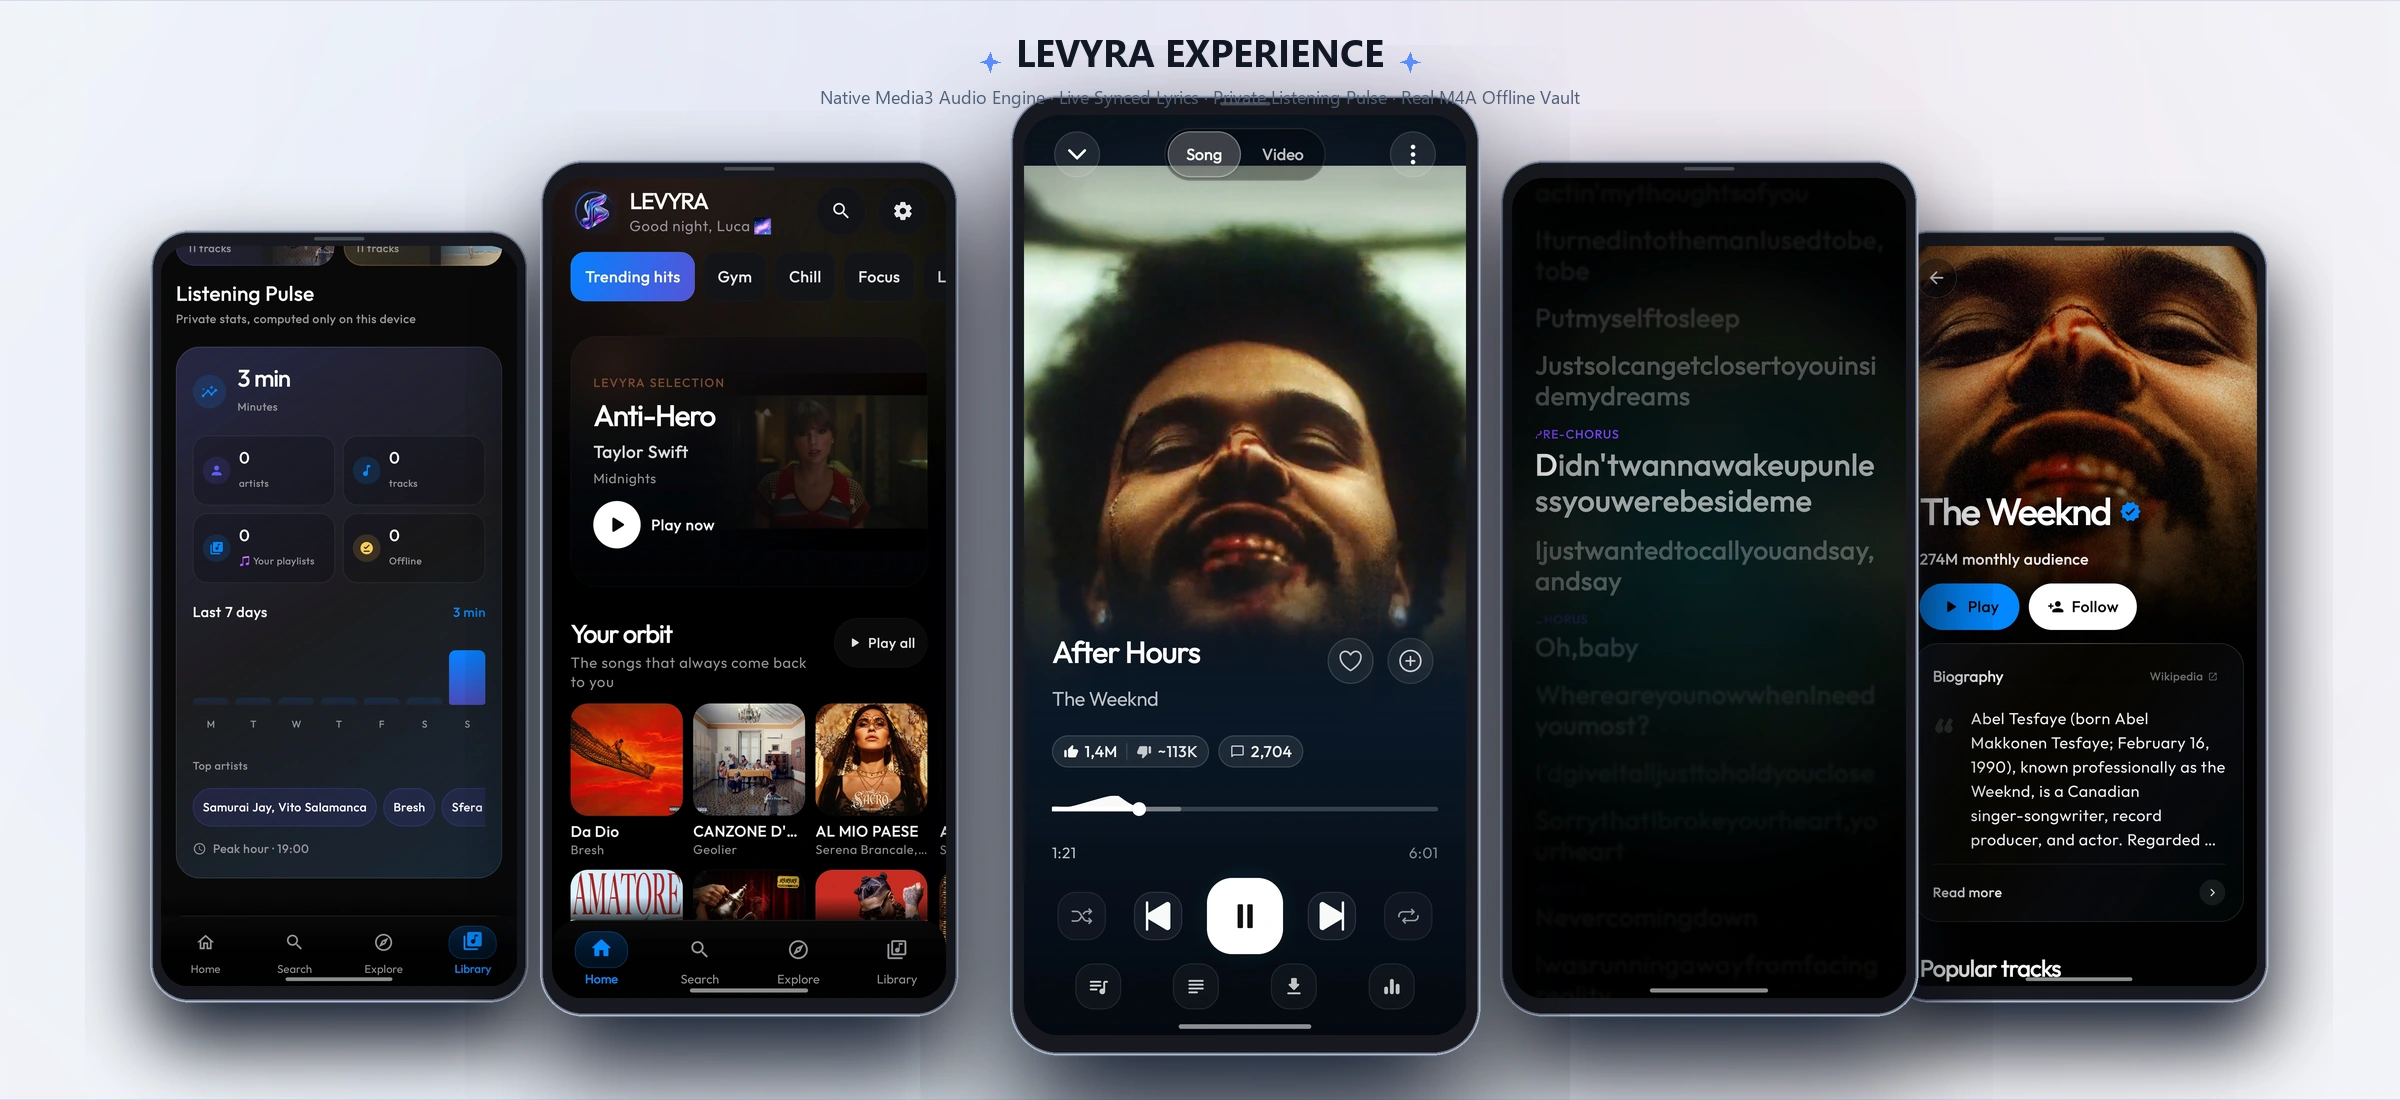
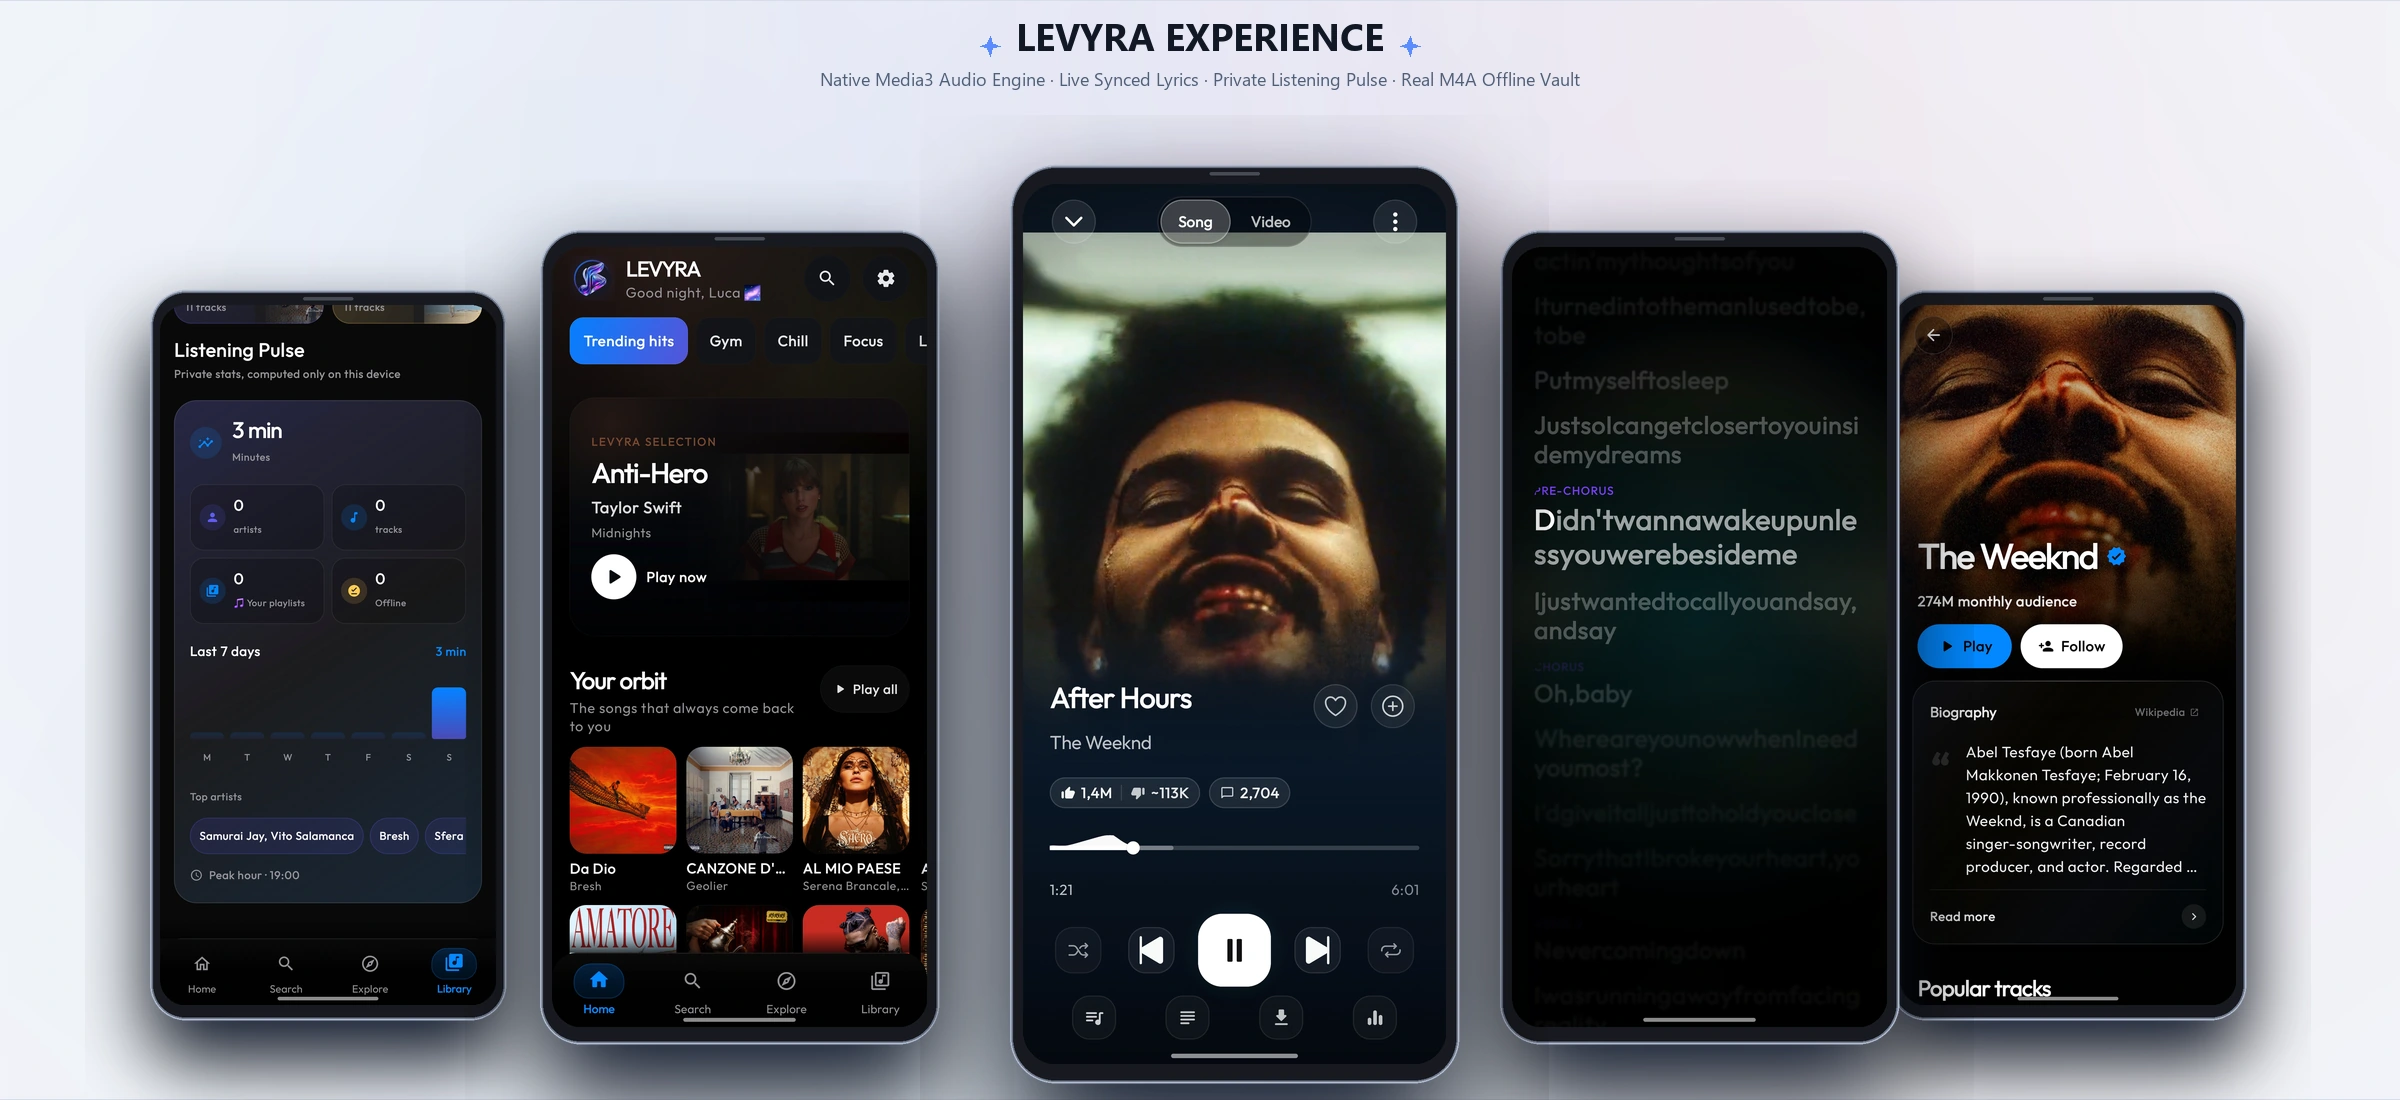
docs: fix showcase hero subtitle clearance and table rendering
* docs(showcase): fix header text clearance in hero showcase light

* docs(readme): format showcase table rows inline for reliable GFM rendering

diff --git a/README.md b/README.md
@@ -188,35 +188,11 @@ Play counts, listening time, streaks, playlists, and listening insights are comp
 
 | | |
 | :---: | :---: |
-| <picture>
-  <source media="(prefers-color-scheme: light)" srcset="docs/assets/showcase/01_playback_and_lyrics-light.webp">
-  <source media="(prefers-color-scheme: dark)" srcset="docs/assets/showcase/01_playback_and_lyrics.webp">
-  <img src="docs/assets/showcase/01_playback_and_lyrics.webp" alt="Immersive Playback & Live Synced Lyrics" width="100%" />
-</picture> | <picture>
-  <source media="(prefers-color-scheme: light)" srcset="docs/assets/showcase/02_home_and_charts-light.webp">
-  <source media="(prefers-color-scheme: dark)" srcset="docs/assets/showcase/02_home_and_charts.webp">
-  <img src="docs/assets/showcase/02_home_and_charts.webp" alt="Smart Orbit Feed & Global Top Charts" width="100%" />
-</picture> |
+| <picture><source media="(prefers-color-scheme: light)" srcset="docs/assets/showcase/01_playback_and_lyrics-light.webp"><source media="(prefers-color-scheme: dark)" srcset="docs/assets/showcase/01_playback_and_lyrics.webp"><img src="docs/assets/showcase/01_playback_and_lyrics.webp" alt="Immersive Playback & Live Synced Lyrics" width="100%" /></picture> | <picture><source media="(prefers-color-scheme: light)" srcset="docs/assets/showcase/02_home_and_charts-light.webp"><source media="(prefers-color-scheme: dark)" srcset="docs/assets/showcase/02_home_and_charts.webp"><img src="docs/assets/showcase/02_home_and_charts.webp" alt="Smart Orbit Feed & Global Top Charts" width="100%" /></picture> |
 | **Immersive Playback & Live Synced Lyrics**<br><sub>ExoPlayer audio engine · Line-by-line LRCLIB synced lyrics · Song/Video toggle · SponsorBlock</sub> | **Smart Orbit Feed & Global Charts**<br><sub>Dynamic 'Your Orbit' rotation · Live Top 50 international charts · Mood chips · Instant prefetch</sub> |
-| <picture>
-  <source media="(prefers-color-scheme: light)" srcset="docs/assets/showcase/03_search_and_artist-light.webp">
-  <source media="(prefers-color-scheme: dark)" srcset="docs/assets/showcase/03_search_and_artist.webp">
-  <img src="docs/assets/showcase/03_search_and_artist.webp" alt="Deep Search & Artist Immersion" width="100%" />
-</picture> | <picture>
-  <source media="(prefers-color-scheme: light)" srcset="docs/assets/showcase/04_library_and_pulse-light.webp">
-  <source media="(prefers-color-scheme: dark)" srcset="docs/assets/showcase/04_library_and_pulse.webp">
-  <img src="docs/assets/showcase/04_library_and_pulse.webp" alt="Offline M4A Vault & Listening Pulse" width="100%" />
-</picture> |
+| <picture><source media="(prefers-color-scheme: light)" srcset="docs/assets/showcase/03_search_and_artist-light.webp"><source media="(prefers-color-scheme: dark)" srcset="docs/assets/showcase/03_search_and_artist.webp"><img src="docs/assets/showcase/03_search_and_artist.webp" alt="Deep Search & Artist Immersion" width="100%" /></picture> | <picture><source media="(prefers-color-scheme: light)" srcset="docs/assets/showcase/04_library_and_pulse-light.webp"><source media="(prefers-color-scheme: dark)" srcset="docs/assets/showcase/04_library_and_pulse.webp"><img src="docs/assets/showcase/04_library_and_pulse.webp" alt="Offline M4A Vault & Listening Pulse" width="100%" /></picture> |
 | **Deep Search & Artist Immersion**<br><sub>Live search with artist bubbles · Wikipedia biography cards · Complete chronological discography</sub> | **Offline M4A Vault & Listening Pulse**<br><sub>Real tagged M4A files with art · On-device 7-day listening analytics · 100% private SQLite</sub> |
-| <picture>
-  <source media="(prefers-color-scheme: light)" srcset="docs/assets/showcase/05_video_and_samples-light.webp">
-  <source media="(prefers-color-scheme: dark)" srcset="docs/assets/showcase/05_video_and_samples.webp">
-  <img src="docs/assets/showcase/05_video_and_samples.webp" alt="Samples Clips & Comment Energy" width="100%" />
-</picture> | <picture>
-  <source media="(prefers-color-scheme: light)" srcset="docs/assets/showcase/06_collections_and_genres-light.webp">
-  <source media="(prefers-color-scheme: dark)" srcset="docs/assets/showcase/06_collections_and_genres.webp">
-  <img src="docs/assets/showcase/06_collections_and_genres.webp" alt="Editorial Playlists & Genre Matrix" width="100%" />
-</picture> |
+| <picture><source media="(prefers-color-scheme: light)" srcset="docs/assets/showcase/05_video_and_samples-light.webp"><source media="(prefers-color-scheme: dark)" srcset="docs/assets/showcase/05_video_and_samples.webp"><img src="docs/assets/showcase/05_video_and_samples.webp" alt="Samples Clips & Comment Energy" width="100%" /></picture> | <picture><source media="(prefers-color-scheme: light)" srcset="docs/assets/showcase/06_collections_and_genres-light.webp"><source media="(prefers-color-scheme: dark)" srcset="docs/assets/showcase/06_collections_and_genres.webp"><img src="docs/assets/showcase/06_collections_and_genres.webp" alt="Editorial Playlists & Genre Matrix" width="100%" /></picture> |
 | **Samples Clips & Comment Energy**<br><sub>Vertical video teaser clips · Live music video feeds · Real-time 73% comment energy resonance</sub> | **Editorial Playlists & Genre Matrix**<br><sub>4-tile dynamic editorial collections · Expansive mood spectrum (Rap, Lo-Fi, Anime, Electronic)</sub> |
 
 </div>
